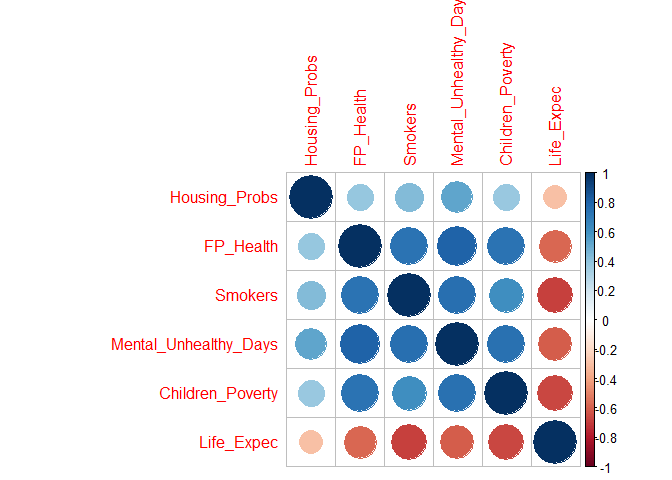
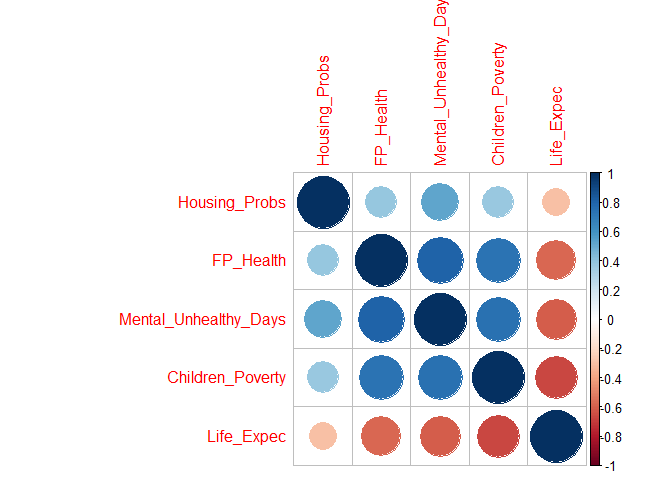
Changes

Changed region(s): [[0.1562, 0.0, 0.9375, 1.0], [0.7188, 0.0938, 0.7812, 0.3438], [0.8125, 0.1875, 0.8438, 0.3438]]

diff --git a/README.md b/README.md
@@ -1,11 +1,12 @@
 Effects of Housing Problems and Home Life on Overall Health
 ================
+Brett Vetter, Dr. Chris Merkord
 
 ## Abstract
 
 Often times when people think of public health, the home you live in
 does not come to mind. But many people all over the country and in
-Minnesota have severe housing problems. A home with severe housing
+Minnesota have severe housing problems. Homes with severe housing
 problems are households with at least one of four housing problems:
 overcrowding, high housing costs, lack of kitchen facilities, or lack of
 plumbing facilities. These things affect your everyday life and tend to
@@ -22,18 +23,18 @@ at the counties in Minnesota.
 ## Introduction
 
 My exploratory data analysis will look at the correlation between % of
-severe housing problems, average number of mentally unhealthy days, % of
-children in poverty and % of smokers with life expectancy and % of fair
-or poor health among counties in Minnesota. I will be looking at the
-correlation some unaddressed issues I mentioned have on our overall
-health, along with the correlation other more addressed issues have on
-our overall health. I believe the results of this analysis will help
-medical and public health workers better focus on simple health factors
-like where people eat, sleep and spend most of their time to help
-diagnose and more efficiently treat people’s health issues. When
-treating patients for health issues we need to pay more attention to the
-factors that may be the root to their issues and correcting those
-factors within our communities.
+severe housing problems, average number of mentally unhealthy days and %
+of children in poverty with life expectancy and % of fair or poor health
+among counties in Minnesota. I will be looking at the correlation some
+unaddressed issues I mentioned have on our overall health, along with
+the correlation other more addressed issues have on our overall health.
+I believe the results of this analysis will help medical and public
+health workers better focus on simple health factors like where people
+eat, sleep and spend most of their time to help diagnose and more
+efficiently treat people’s health issues. When treating patients for
+health issues we need to pay more attention to the factors that may be
+the root to their issues and correcting those factors within our
+communities.
 
 ## Methods
 
@@ -51,9 +52,8 @@ My data consists of 90 rows, each row representing a different county in
 Minnesota. The variables I chose to use from the data set were: Deaths -
 Numerical Discrete % Housing problems - Numerical Continuous % Fair or
 poor health - Numerical Continuous Life expectancy - Numerical
-Continuous % Smokers - Numerical Continuous Average number of mentally
-unhealthy days - Numerical Continuous % of children in poverty -
-Numerical Continuous
+Continuous Average number of mentally unhealthy days - Numerical
+Continuous % of children in poverty - Numerical Continuous
 
 ### Data Preparation
 
